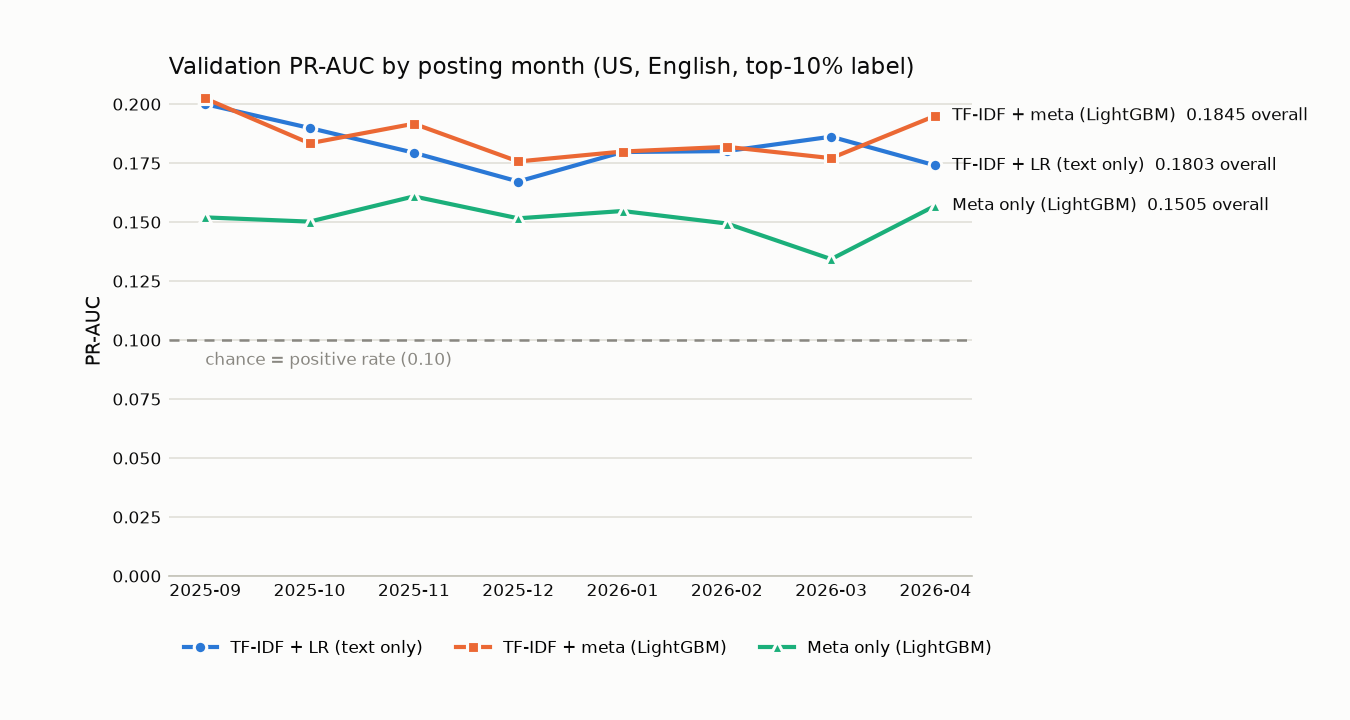
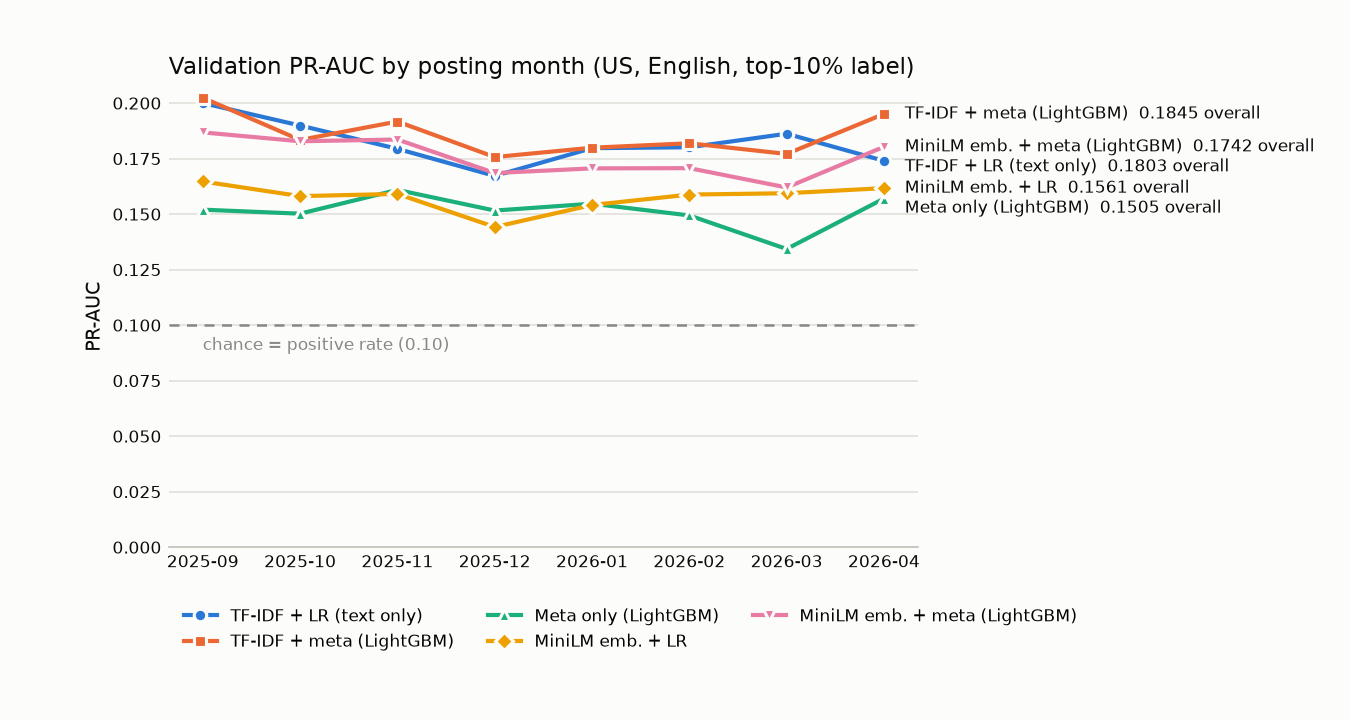
Phase 4a: MiniLM embedding classifiers, comparison table generator, 5-model per-month plot

diff --git a/ml/src/plot_baselines.py b/ml/src/plot_baselines.py
@@ -1,4 +1,4 @@
-"""Plot per-month validation PR-AUC for each baseline, from reports/metrics.json only.
+"""Plot per-month validation PR-AUC for each model, from reports/metrics.json only.
 
 Usage:  python -m src.plot_baselines
 Writes: reports/val_per_month_pr_auc.png
@@ -14,30 +14,42 @@ import matplotlib.pyplot as plt  # noqa: E402
 
 ML_DIR = Path(__file__).resolve().parents[1]
 
-# Reference categorical palette, slots 1-3 in fixed order (validated: CVD + normal vision pass;
-# aqua is < 3:1 on the surface, so every line is also direct-labelled and has its own marker).
+# Reference categorical palette, slots 1-5 in fixed order (validated: CVD + normal vision pass;
+# slots 3-5 are < 3:1 on the surface, so every line is also direct-labelled, has its own marker,
+# and the same numbers are in the results table).
 SURFACE, INK, MUTED, GRID = "#fcfcfb", "#0b0b0b", "#898781", "#e1e0d9"
 SERIES = [
     ("tfidf_lr", "TF-IDF + LR (text only)", "#2a78d6", "o"),
     ("tfidf_meta_lgbm", "TF-IDF + meta (LightGBM)", "#eb6834", "s"),
     ("meta_lgbm", "Meta only (LightGBM)", "#1baf7a", "^"),
+    ("emb_lr", "MiniLM emb. + LR", "#eda100", "D"),
+    ("emb_meta_lgbm", "MiniLM emb. + meta (LightGBM)", "#e87ba4", "v"),
 ]
+MIN_LABEL_GAP = 0.009  # PR-AUC units between stacked end labels
 
 
 def main() -> None:
-    b = json.loads((ML_DIR / "reports" / "metrics.json").read_text())["baselines"]
+    metrics = json.loads((ML_DIR / "reports" / "metrics.json").read_text())
+    b = {**metrics["baselines"], **metrics.get("embeddings", {})}
     months = list(b["tfidf_lr"]["val_per_month_pr_auc"].keys())
+    series = [s for s in SERIES if s[0] in b]
     x = range(len(months))
 
     fig, ax = plt.subplots(figsize=(9, 4.8), dpi=150, facecolor=SURFACE)
     ax.set_facecolor(SURFACE)
-    for key, label, color, marker in SERIES:
+    ends = []
+    for key, label, color, marker in series:
         ys = [b[key]["val_per_month_pr_auc"][m] for m in months]
         ax.plot(x, ys, color=color, linewidth=2, marker=marker, markersize=6,
                 markeredgecolor=SURFACE, markeredgewidth=1.5, label=label, zorder=3)
-        ax.annotate(f"{label}  {b[key]['val']['pr_auc']:.4f} overall", (len(months) - 1, ys[-1]),
-                    xytext=(8, 0), textcoords="offset points", va="center", fontsize=8,
-                    color=INK)
+        ends.append([ys[-1], f"{label}  {b[key]['val']['pr_auc']:.4f} overall"])
+    # spread end labels vertically so they never overlap (top-down, keep a minimum gap)
+    ends.sort(key=lambda e: -e[0])
+    for i in range(1, len(ends)):
+        ends[i][0] = min(ends[i][0], ends[i - 1][0] - MIN_LABEL_GAP)
+    for y_lab, text in ends:
+        ax.annotate(text, (len(months) - 1, y_lab), xytext=(10, 0), textcoords="offset points",
+                    va="center", fontsize=8, color=INK)
     chance = b["random"]["val"]["positive_rate"]
     ax.axhline(chance, color=MUTED, linewidth=1.2, linestyle=(0, (4, 3)), zorder=2)
     ax.annotate(f"chance = positive rate ({chance:.2f})", (0, chance), xytext=(0, -12),
@@ -56,7 +68,7 @@ def main() -> None:
                  fontsize=11, color=INK, loc="left")
     ax.legend(loc="upper left", fontsize=8, frameon=False, ncols=3,
               bbox_to_anchor=(0, -0.1))
-    fig.subplots_adjust(right=0.72, bottom=0.2)
+    fig.subplots_adjust(right=0.68, bottom=0.24)
     out = ML_DIR / "reports" / "val_per_month_pr_auc.png"
     fig.savefig(out, facecolor=SURFACE)
     print(f"saved {out}")

diff --git a/ml/src/compare_models.py b/ml/src/compare_models.py
@@ -1,0 +1,54 @@
+"""Build the validation comparison table from reports/metrics.json (never hand-typed).
+
+Usage:  python -m src.compare_models
+Writes: reports/model_comparison.md
+"""
+
+import json
+from pathlib import Path
+
+ML_DIR = Path(__file__).resolve().parents[1]
+
+ROWS = [  # (section, key, display name)
+    ("baselines", "majority", "Majority (constant score)"),
+    ("baselines", "random", "Random"),
+    ("baselines", "meta_lgbm", "(b) Meta only, LightGBM"),
+    ("baselines", "tfidf_lr", "(c) TF-IDF word+char, LR"),
+    ("baselines", "tfidf_meta_lgbm", "(d) TF-IDF + meta, LightGBM"),
+    ("embeddings", "emb_lr", "(e) MiniLM embeddings, LR"),
+    ("embeddings", "emb_meta_lgbm", "(f) MiniLM embeddings + meta, LightGBM"),
+    ("transformer", "distilbert", "(g) DistilBERT fine-tuned (250k train subsample)"),
+]
+
+
+def table(metrics: dict) -> str:
+    lines = ["| Model | PR-AUC | PR-AUC (dedup) | ROC-AUC | F1 (val-tuned thr.) | P@top10% "
+             "| per-month PR-AUC min–max |",
+             "|---|---|---|---|---|---|---|"]
+    for section, key, name in ROWS:
+        r = metrics.get(section, {}).get(key)
+        if r is None:
+            continue
+        v, d = r["val"], r["val_deduped"]
+        pm = r["val_per_month_pr_auc"].values()
+        lines.append(f"| {name} | {v['pr_auc']:.4f} | {d['pr_auc']:.4f} | {v['roc_auc']:.4f} "
+                     f"| {v['f1']:.4f} | {v['precision_at_top10']:.4f} "
+                     f"| {min(pm):.4f}–{max(pm):.4f} |")
+    return "\n".join(lines)
+
+
+def main() -> None:
+    metrics = json.loads((ML_DIR / "reports" / "metrics.json").read_text())
+    md = ("# Model comparison: validation (2025-09..2026-04)\n\n"
+          "Generated by `python -m src.compare_models` from `reports/metrics.json`. "
+          "Chance PR-AUC = positive rate (~0.10).\n\n" + table(metrics) + "\n")
+    sanity = {s: metrics[s].get("sanity_shuffled_labels") for s in ("baselines", "embeddings")
+              if s in metrics}
+    md += "\nShuffled-label sanity (val PR-AUC, expect ~0.10): " + json.dumps(sanity) + "\n"
+    out = ML_DIR / "reports" / "model_comparison.md"
+    out.write_text(md, encoding="utf-8")
+    print(md)
+
+
+if __name__ == "__main__":
+    main()

diff --git a/ml/reports/model_comparison.md b/ml/reports/model_comparison.md
@@ -1,0 +1,15 @@
+# Model comparison: validation (2025-09..2026-04)
+
+Generated by `python -m src.compare_models` from `reports/metrics.json`. Chance PR-AUC = positive rate (~0.10).
+
+| Model | PR-AUC | PR-AUC (dedup) | ROC-AUC | F1 (val-tuned thr.) | P@top10% | per-month PR-AUC min–max |
+|---|---|---|---|---|---|---|
+| Majority (constant score) | 0.1001 | 0.1014 | 0.5000 | 0.1820 | 0.1038 | 0.1000–0.1002 |
+| Random | 0.0995 | 0.1008 | 0.4995 | 0.1821 | 0.0991 | 0.0958–0.1031 |
+| (b) Meta only, LightGBM | 0.1505 | 0.1512 | 0.6201 | 0.2232 | 0.1845 | 0.1343–0.1609 |
+| (c) TF-IDF word+char, LR | 0.1803 | 0.1818 | 0.6698 | 0.2591 | 0.2220 | 0.1672–0.2000 |
+| (d) TF-IDF + meta, LightGBM | 0.1845 | 0.1857 | 0.6705 | 0.2607 | 0.2274 | 0.1757–0.2024 |
+| (e) MiniLM embeddings, LR | 0.1561 | 0.1570 | 0.6328 | 0.2316 | 0.1875 | 0.1442–0.1647 |
+| (f) MiniLM embeddings + meta, LightGBM | 0.1742 | 0.1751 | 0.6603 | 0.2505 | 0.2125 | 0.1620–0.1868 |
+
+Shuffled-label sanity (val PR-AUC, expect ~0.10): {"baselines": {"tfidf_lr_val_pr_auc": 0.1012, "meta_lgbm_val_pr_auc": 0.1022}, "embeddings": {"emb_lr_val_pr_auc": 0.0995, "emb_meta_lgbm_val_pr_auc": 0.1012}}

diff --git a/README.md b/README.md
@@ -58,6 +58,7 @@ python -m src.train_baselines       # Phase 3 baselines on validation -> reports
 python -m src.plot_baselines        # reports/val_per_month_pr_auc.png
 python -m src.embed --splits train val  # MiniLM caption embeddings (~60 min on CPU, resumable)
 python -m src.train_embeddings      # Phase 4a: LR / LightGBM on embeddings
+python -m src.compare_models        # validation comparison table -> reports/model_comparison.md
 python -m src.export_colab          # Phase 4b: data for Colab -> ml/data/colab/
 #   then run ml/notebooks/finetune_distilbert_colab.ipynb on a Colab T4 GPU
 python -m src.import_transformer_preds  # score the DistilBERT predictions brought back
